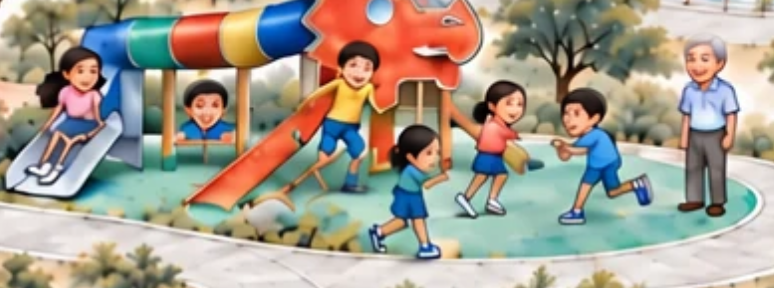
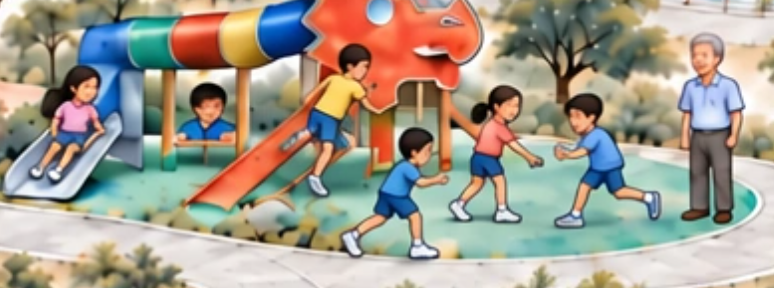
Correct playground figures with natural child proportions

diff --git a/js/app.js b/js/app.js
@@ -62,15 +62,14 @@ function atlasScene(r,i){
    '<path class="atlas-hit" d="'+g.area+'"/><g class="atlas-marker" transform="translate('+g.marker.join(' ')+')">'+
    '<circle r="22"/><text y="8" text-anchor="middle">'+(i+1)+'</text></g></g>';
 }
-// Face-only restoration keeps every approved scene outside the playground faces intact.
-var PLAYGROUND_FACES=[[1012,434],[1074,452],[1150,432],[1178,472],[1222,450],[1262,455],[1325,430]];
-function playgroundFaces(){
-  return '<defs><radialGradient id="play-face-feather"><stop offset="65%" stop-color="white"/><stop offset="100%" stop-color="black"/></radialGradient><mask id="play-face-mask" maskUnits="userSpaceOnUse" x="0" y="0" width="1536" height="1024"><rect width="1536" height="1024" fill="black"/>'+PLAYGROUND_FACES.map(function(p){return '<ellipse cx="'+p[0]+'" cy="'+p[1]+'" rx="16" ry="17" fill="url(#play-face-feather)"/>';}).join('')+'</mask></defs><image href="assets/atlas/playground-faces-v43.webp" width="1536" height="1024" mask="url(#play-face-mask)" aria-hidden="true" pointer-events="none"/>';
+// Replace complete playground figures together so heads, necks and bodies stay coherent.
+function playgroundFigures(){
+  return '<defs><filter id="play-scene-feather" x="-5%" y="-10%" width="110%" height="120%"><feGaussianBlur stdDeviation="2"/></filter><mask id="play-scene-mask" maskUnits="userSpaceOnUse" x="0" y="0" width="1536" height="1024"><rect x="972" y="402" width="382" height="132" fill="white" filter="url(#play-scene-feather)"/></mask></defs><image href="assets/atlas/playground-figures-v44.webp" width="1536" height="1024" mask="url(#play-scene-mask)" aria-hidden="true" pointer-events="none"/>';
 }
 function atlasMap(){
   return '<div class="atlas-stage"><div class="mapbox atlas-map"><svg viewBox="0 0 1536 1024" role="group" aria-label="话题地图">'+
    '<image href="assets/atlas/watercolor-map-v42.webp" width="1536" height="1024" aria-hidden="true"/>'+
-   playgroundFaces()+SCHOOL_IDENTITY+REGIONS.map(atlasScene).join("")+ATLAS_BRANDING+'</svg></div></div>'+
+   playgroundFigures()+SCHOOL_IDENTITY+REGIONS.map(atlasScene).join("")+ATLAS_BRANDING+'</svg></div></div>'+
    '<nav class="atlas-regions" aria-label="话题地图">'+REGIONS.map(function(r,i){
     return '<button data-reg="'+r.id+'" class="atlas-region'+(regionMine(r.id)?' mine':'')+'"><span class="atlas-index" aria-hidden="true">'+(i+1)+'</span><span><b>'+atlasName(r)+'</b><span class="atlas-meta">'+(r.motto?esc(r.motto)+' · ':'')+countR(r.id)+' 个话题</span></span>'+(regionMine(r.id)?'<span class="atlas-mine">我的课本</span>':'')+'</button>';
    }).join("")+'</nav>';

diff --git a/docs/20261030_Codex_playground-proportions_handoff.md b/docs/20261030_Codex_playground-proportions_handoff.md
@@ -1,0 +1,14 @@
+# Playground proportions and natural expressions
+
+Updated October 30, 2026 by HOD/MTL Mdm Chun Kai Xin
+
+Owner rejected v43 face patches because enlarged facial features looked creepy and neckless. Remove individual face overlays. Redraw the playground people as coherent complete figures with proportionate heads, visible necks and gentle childlike expressions. Apply the repaired playground scene locally while preserving all other approved map pixels.
+
+Built-in imagegen edit target: v42, before the rejected face overlays.
+
+Exact prompt:
+
+> Precise localized illustration repair. Edit this approved watercolor atlas ONLY in dragon playground region x975-1350,y405-530 (1536x1024 coordinates). Redraw SIX children and supervising elderly man as COMPLETE anatomically coherent little human figures, not pasted-on faces. Children are primary-school ages 7-10, natural 5.5 to 6 heads tall, slender child bodies, small rounded heads proportionate to bodies, clearly visible SHORT NECK between jaw and T-shirt collar, relaxed narrow shoulders, believable arms and legs. IMPORTANT make heads smaller than in source, roughly 10-12px high for 60-70px full child height; never bobbleheads, chibi, oversized faces, giant eyes or head fused into torso. Cute through soft cheeks and gentle varied expressions, tiny finely inked eyes, small noses and relaxed closed-mouth smiles. No large eyes, teethy grins or adult-looking child faces. Elderly man normal 7-head adult proportions with small head, visible neck above polo collar and kind subtle smile. Preserve casual clothes, skin colors/racial diversity, age-appropriate natural hair and SAME six activity positions: girl on left slide, child peeking through tunnel, yellow-shirt child climbing, blue-shirt child at front in motion, coral-shirt child playing, blue-shirt runner at right. Preserve equipment dimensions and dragon playground exactly, naturally seat/stand figures on surfaces. Preserve total count six children plus one adult, same overall group scale and placement; do not enlarge figures to show faces. Match gently detailed ink-and-watercolor style of foreground family/readers. Keep all outside playground EXACTLY unchanged, particularly 3boys/3girls school groups with dark center students, readers' distinct expressions, family, school actual facade, HDB, winding paths, relics and paper. Same 1536x1024 framing. Prioritize coherent neck/head/shoulder/body anatomy over excessive face detail.
+
+
+Saved asset: `assets/atlas/playground-figures-v44.webp`. The v42 base remains unchanged. The seven individual v43 face masks are removed from rendering. One feathered local scene mask reveals complete repaired playground figures, preserving every other approved scene.

diff --git a/CLAUDE.md b/CLAUDE.md
@@ -142,3 +142,6 @@ School group gender refinement, October 30 2026: owner requests exactly three bo
 
 
 Playground facial-detail restoration, October 30 2026: owner identified blurry faces after subsequent full-map edits. Built-in imagegen restores six playground children and the supervising adult. Base map remains v42. `assets/atlas/playground-faces-v43.webp` is overlaid through seven small feathered SVG face masks, preserving original pixels in all other scenes. Keep this restoration when changing map assets; revisit mask positions if playground geometry changes. Prompt/provenance: `docs/20261030_Codex_playground-faces_handoff.md`.
+
+
+Playground proportion correction, October 30 2026: owner rejected the v43 face patches as oversized and neckless. They are removed from rendering. Built-in imagegen v44 redraws complete playground figures with smaller child heads, visible short necks and coherent bodies, plus a proportionate adult. `assets/atlas/playground-figures-v44.webp` replaces the local playground scene through one feathered scene mask on the unchanged v42 base. Never paste enlarged face-only patches onto tiny figures. Prompt and handoff: `docs/20261030_Codex_playground-proportions_handoff.md`.
